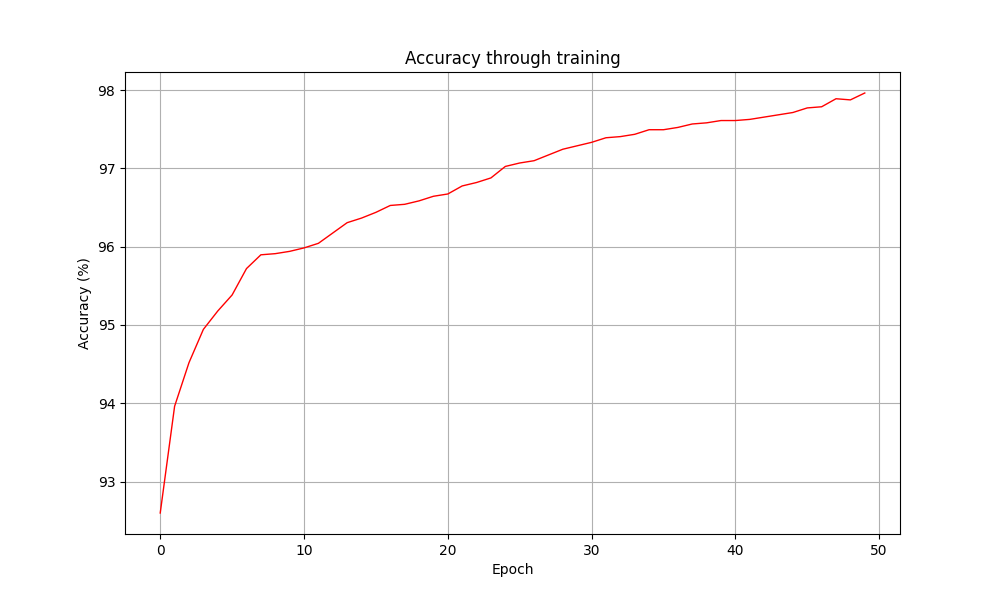
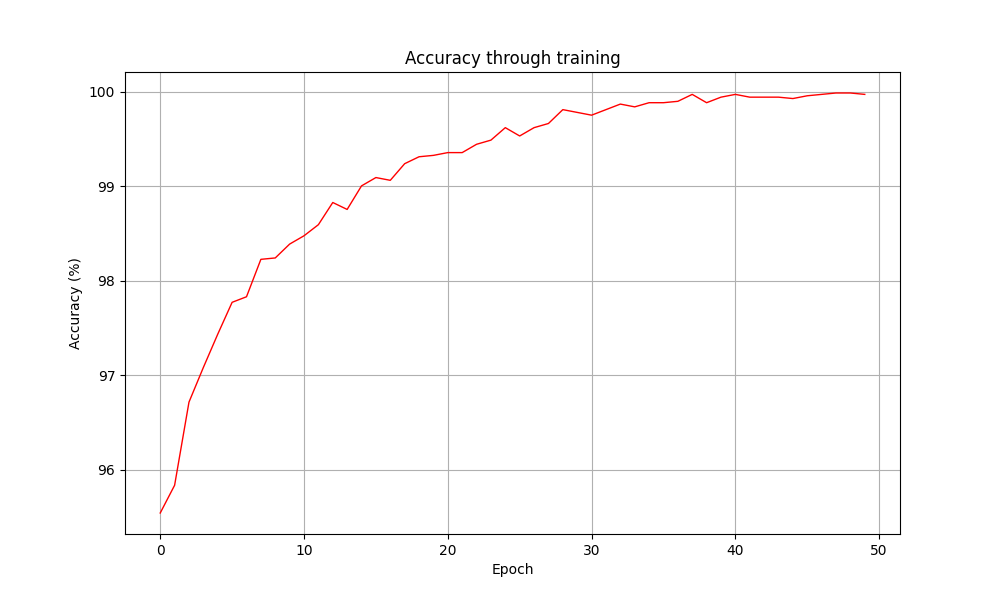
final commit

diff --git a/Main.py b/Main.py
@@ -44,6 +44,7 @@ def main():
         num_epoch = 50
         mini_batch_size = 64
 
+
     # clearing previous plots and files
     clear_folder("./plots/" + dir + "/" + activation_function)
     if os.path.exists("./plots/" + dir + "/results.csv"):
@@ -55,9 +56,10 @@ def main():
     # set up layers dimensions
     first = X_train.shape[0]
 
+    layers_dims_list = [[first, 32, 32, 1], [first, 64, 32, 1], [first, 64, 64, 1], [first, 128, 64, 1], [first, 128, 128, 1], [first, 256, 128, 1], [first, 256, 256, 1]]
+
     lambda_l1_list = [1e-3, 5e-3, 0.5, 1]
     lambda_l2_list = [0.01, 0.1, 0.5, 4.5]
-    layers_dims_list = [[first, 64, 64, 1], [first, 128, 64, 1], [first, 128, 128, 1], [first, 256, 128, 1], [first, 256, 256, 1]]
 
     parameters = cross_validation(X_train, Y_train, X_valid, Y_valid, layers_dims_list, lambda_l1_list, lambda_l2_list,
                                   dir, hidden_layers_activation_fn=activation_function, with_momentum=True,

diff --git a/CrossValidation.py b/CrossValidation.py
@@ -7,7 +7,7 @@ from FileUtils import *
 import concurrent.futures
 
 
-def cross_validation(X_train, Y_train, X_valid, Y_valid, layers_dims_list, lambda_l1_list, lambda_l2_list, dir, hidden_layers_activation_fn="relu", with_momentum=True, learning_rate=0.01, num_epochs=50, print_debug=True, mini_batch_size=64):
+def cross_validation(X_train, Y_train, X_valid, Y_valid, layers_dims_list, lambda_l1_list, lambda_l2_list, dir, hidden_layers_activation_fn="relu", with_momentum=True, learning_rate=0.1, num_epochs=50, print_debug=True, mini_batch_size=64):
 
     best_parameters = None
     best_accuracy: float = 0.0

diff --git a/PlotUtils.py b/PlotUtils.py
@@ -11,7 +11,7 @@ def plotError(error_list, num_iterations, dir, model_name="final_model_error", a
     plt.title('Loss through training')
     plt.grid(True)
     plt.savefig('plots/' + dir + '/' + activation_fn + "/" + model_name + '.png')
-    plt.show()
+    #plt.show()
     plt.close()
 
 
